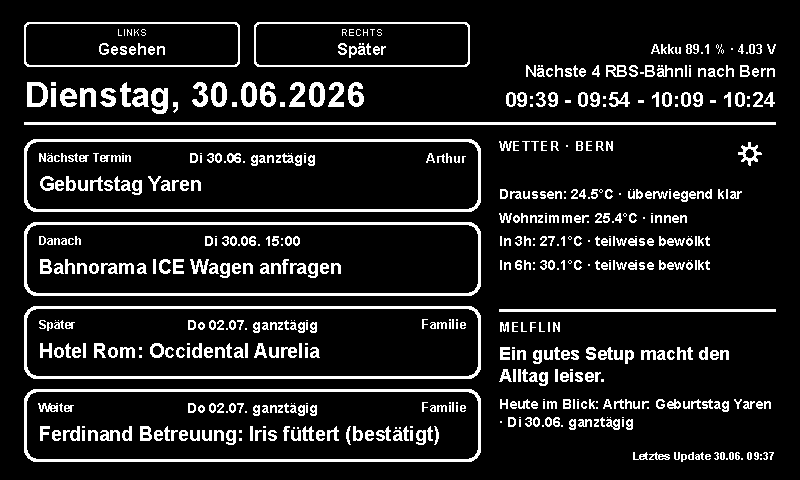
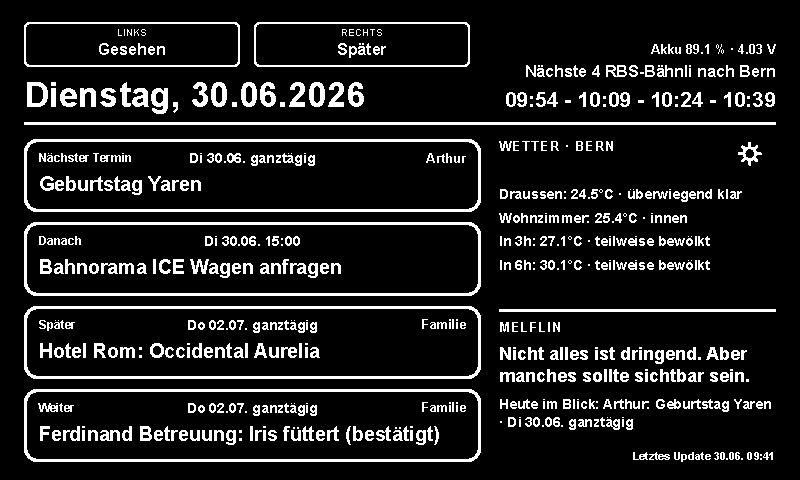
Refresh published display pages

diff --git a/static/melflin-display/index.html b/static/melflin-display/index.html
@@ -57,7 +57,7 @@
         <div class='transit-header'>
           <div class='device-status'>Akku 89.1 % · 4.03 V</div>
           <div class='rbs-title'>Nächste 4 RBS-Bähnli nach Bern</div>
-          <div class='rbs-times' data-transit-times>09:39 - 09:54 - 10:09 - 10:24</div>
+          <div class='rbs-times' data-transit-times>09:54 - 10:09 - 10:24 - 10:39</div>
         </div>
       </div>
     </div>
@@ -108,12 +108,12 @@
         </div>
         <div class='panel'>
           <h2>Melflin</h2>
-          <div class='note'>Ein gutes Setup macht den Alltag leiser.</div>
+          <div class='note'>Nicht alles ist dringend. Aber manches sollte sichtbar sein.</div>
           <div class='note-secondary'>Heute im Blick: Arthur: Geburtstag Yaren · Di 30.06. ganztägig</div>
         </div>
       </div>
     </div>
-    <div class='update-stamp'>Letztes Update 30.06. 09:37</div>
+    <div class='update-stamp'>Letztes Update 30.06. 09:41</div>
   </div>
   <script>
     (() => {

diff --git a/public/melflin-display/family/index.html b/public/melflin-display/family/index.html
@@ -96,7 +96,7 @@
         </div>
         </div>
     </div>
-    <div class='update'>Letztes Update 30.06. 09:37</div>
+    <div class='update'>Letztes Update 30.06. 09:41</div>
   </div>
 </body>
 </html>

diff --git a/static/melflin-display/family.html b/static/melflin-display/family.html
@@ -96,7 +96,7 @@
         </div>
         </div>
     </div>
-    <div class='update'>Letztes Update 30.06. 09:37</div>
+    <div class='update'>Letztes Update 30.06. 09:41</div>
   </div>
 </body>
 </html>

diff --git a/static/melflin-display/family/index.html b/static/melflin-display/family/index.html
@@ -96,7 +96,7 @@
         </div>
         </div>
     </div>
-    <div class='update'>Letztes Update 30.06. 09:37</div>
+    <div class='update'>Letztes Update 30.06. 09:41</div>
   </div>
 </body>
 </html>